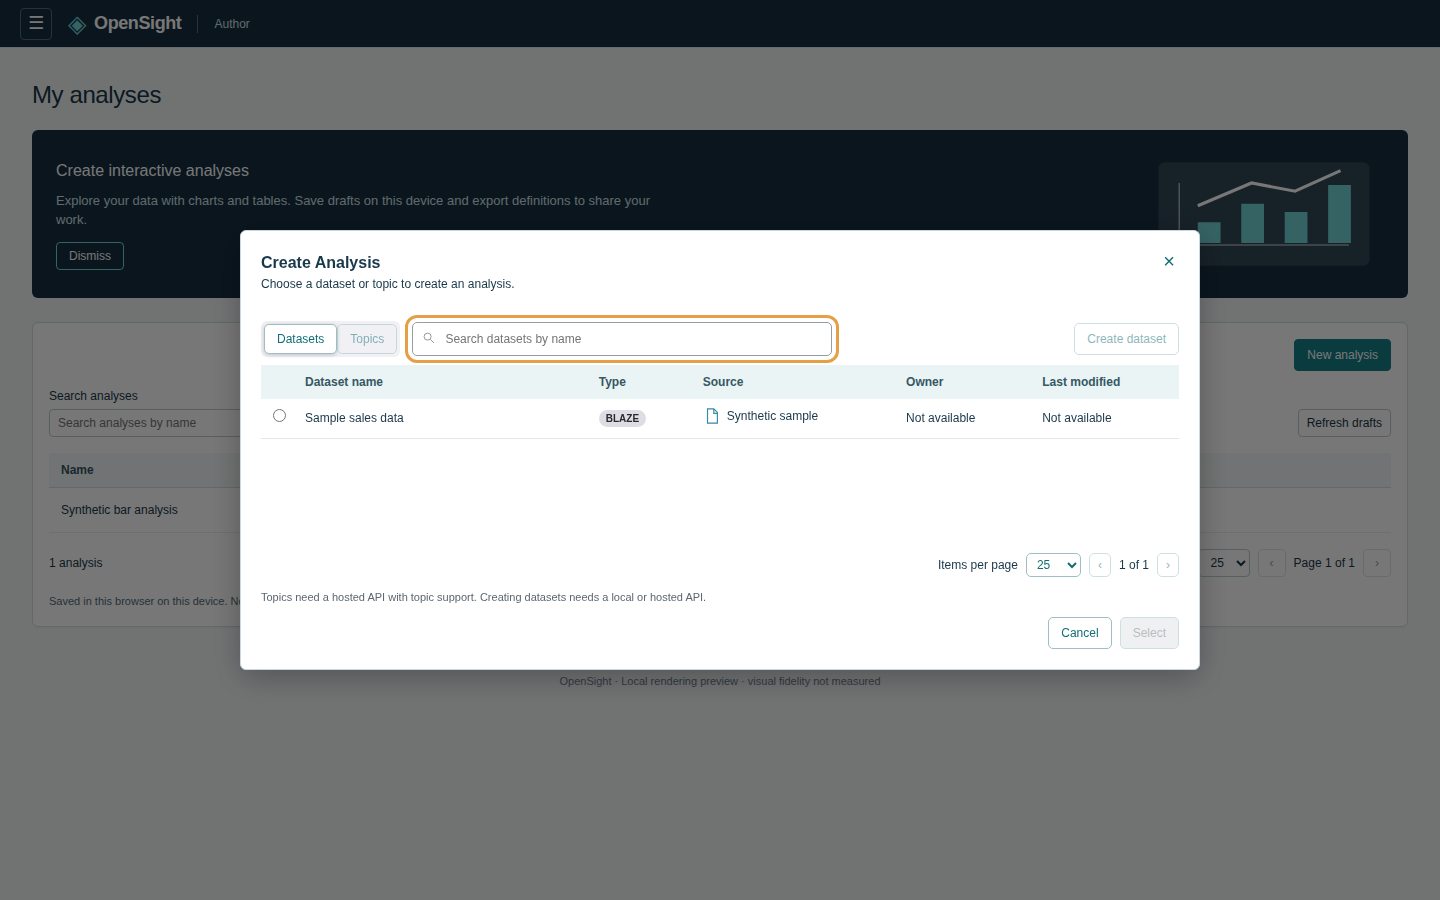
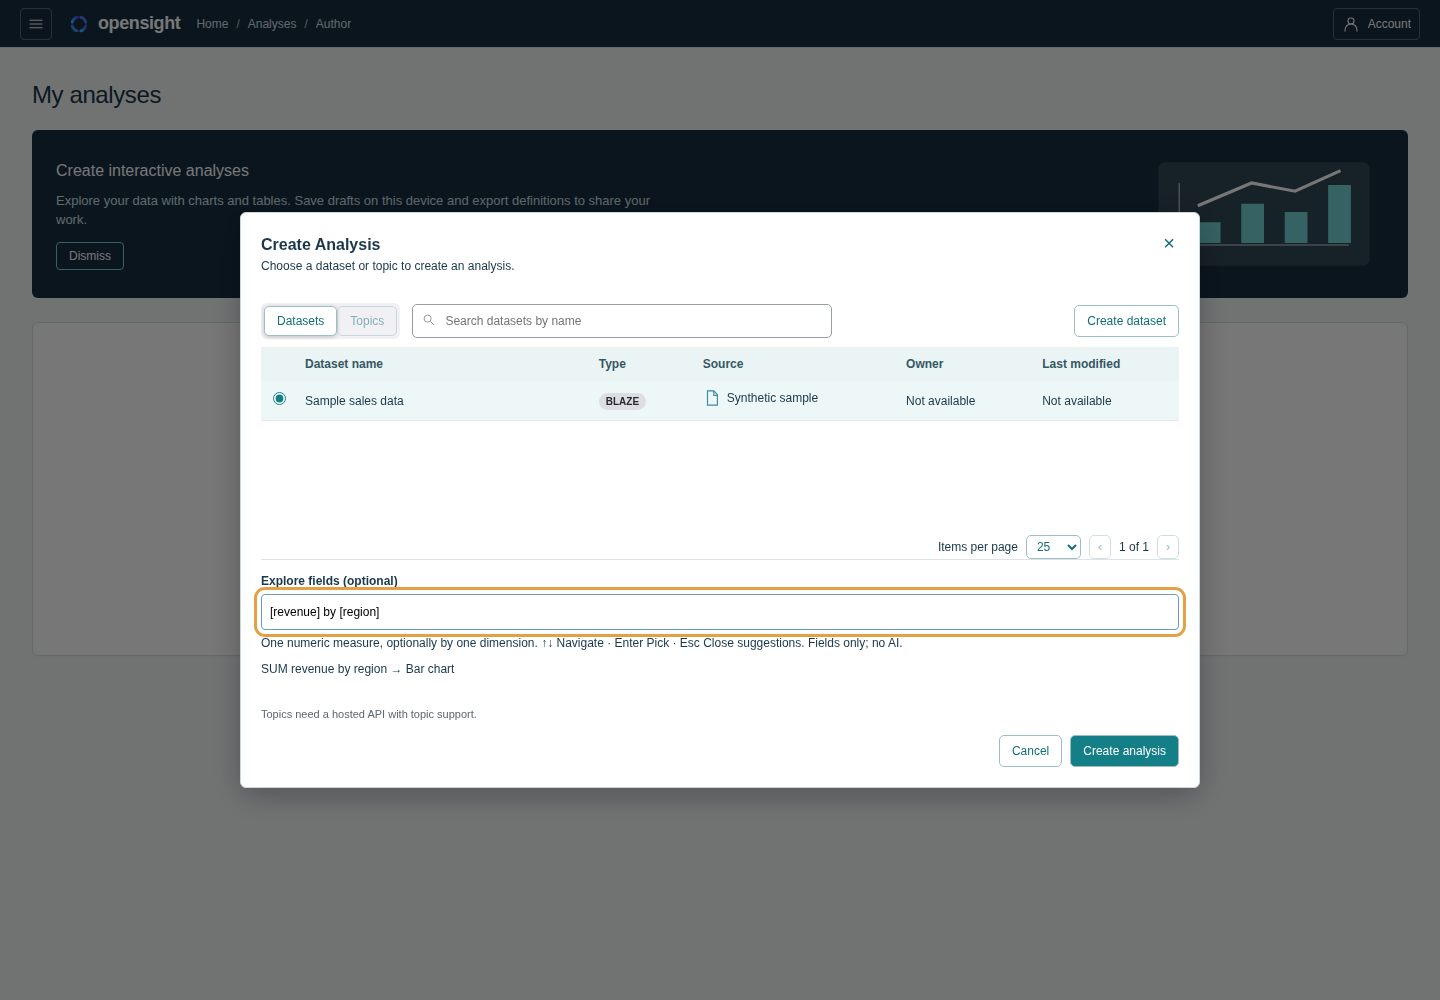
Issue 156 Item 4: document workflows and refresh verified demo captures

diff --git a/docs/issue-156-gap-notes.md b/docs/issue-156-gap-notes.md
@@ -1,0 +1,101 @@
+# Issue #156 verification and visual comparison
+
+The resolved scope is recorded in [Familiar-surface self-service](familiar-surface.md).
+Column rename was included because the existing prep model already has `rename`.
+No build item was omitted. No new dependency was added; `SOLUTION_DESIGN.md`
+remains unchanged. All commits stay on `work/issue-156-familiar-surface`.
+
+## Full root test result
+
+Root `npm test` exited **0**: **4,402 passed / 0 failed / 0 skipped /
+0 cancelled** (4,370 Node tests plus 32 Python tests).
+
+| Runner | Passed | Failed | Skipped |
+| --- | ---: | ---: | ---: |
+| API | 912 | 0 | 0 |
+| Bundle parser | 199 | 0 | 0 |
+| CLI | 73 | 0 | 0 |
+| Embedding SDK | 10 | 0 | 0 |
+| Headless SDK | 28 | 0 | 0 |
+| Python headless SDK | 32 | 0 | 0 |
+| MCP server | 74 | 0 | 0 |
+| O interpreter | 32 | 0 | 0 |
+| Parity | 11 | 0 | 0 |
+| Query engine | 523 | 0 | 0 |
+| Web | 2,420 | 0 | 0 |
+| Root conformance | 88 | 0 | 0 |
+| **Total** | **4,402** | **0** | **0** |
+
+The successful run used `TZ=UTC`, `DATABASE_URL`,
+`OPENSIGHT_TEST_POSTGRES_CA` and `OPENSIGHT_CHROMIUM`. The shared local Postgres
+on port 5433 has SSL disabled, so the final run used an isolated temporary UTF-8
+Postgres instance with TLS, leaving that shared server unchanged. The Chromium
+launcher supplied its required validated empty WebGL domain allowlist. No test
+was disabled or weakened. The local full log and exit status are retained under
+`.opensight/issue-156/` (ignored by Git). The temporary database and its TLS
+material were removed after verification.
+
+## Behavioral checks
+
+Root-wired tests cover plain/bracketed measure and measure-by-dimension queries,
+case-insensitive exact matches, spaces and bracket escaping, unknown fields with
+closest suggestions, ambiguous fields, malformed syntax, unsupported roles,
+dataset changes and stale catalog selections. Search results serialize and render
+through the ordinary visual compiler. Both creation entry points open normal
+Author drafts; prepared dataset binding and save/reload are exercised.
+
+The grid tests drive the real step editor from both grid shortcuts and catalog
+actions, then execute both resulting pipelines in DuckDB and Postgres (PGlite).
+Formula/filter/rename output agrees with independently asserted rows, including
+null filtering. Invalid expressions, aggregates, unknown fields, duplicate names,
+invalid filter values and actions from an earlier preview are rejected. Preview
+row numbering, column reordering, and the absence of cell editors are checked.
+
+## Browser and reference comparison
+
+`packages/web/scripts/capture-familiar-surface.mjs` exercises the rebuilt
+single-file demo at 1440px and 390px. Keyboard suggestions, unknown-token rejection,
+chart save/reload, and formula/filter/rename actions pass. No document overflow,
+browser page errors, or external requests were observed. Prep remains schema-only
+in the static demo, with zero fabricated rows and disabled Save pipeline.
+
+Compared with the local `qs-2026/qs-data-prep-new.jpg` reference, the Steps dock,
+pipeline canvas and Configure/Preview arrangement remain intact. The grid adds
+compact column actions within Preview; it does not introduce floating panels.
+Compared with `qs-2026/qs-create-analysis-dialog.jpg`, the existing dataset table,
+tabs, pagination and modal controls remain in place. Field exploration appears
+below the selected dataset. Existing unavailable catalog metadata stays labeled
+as unavailable, and Topics retains its hosted-support explanation.
+
+The new search surface intentionally extends the reference dataset picker.
+Existing reference differences remain; no new visual regression was found in
+this slice's checks. The footer still says “visual fidelity not measured”; these
+manual comparisons do not establish QuickSight parity or a deployed server.
+
+The README Create Analysis and data-prep screenshots were refreshed from the
+rebuilt demo. The maintained `capture-readme-tour.mjs` adaptation of the supplied
+`readme-gif.mjs` includes field search, grounded correction, formula columns and
+column filters. Its 246 frames were assembled with the documented ffmpeg palette
+workflow at 960×600 and 10fps. The tour reported zero page errors or external
+requests.
+
+## Changed-file inventory
+
+- Preparation: `packages/web/src/DataPrep.tsx`,
+  `packages/web/src/PrepPreviewTable.tsx`, `packages/web/src/style.css`.
+- Field search and draft creation: `packages/web/src/field-search.ts`,
+  `packages/web/src/FieldSearchInput.tsx`,
+  `packages/web/src/CreateAnalysisDialog.tsx`, `packages/web/src/Application.tsx`,
+  `packages/web/src/Author.tsx`, `packages/web/src/use-local-drafts.ts`.
+- Root-wired tests: `packages/web/test/field-search.test.mjs`,
+  `packages/web/test/create-analysis-dialog.test.mjs`,
+  `packages/web/test/new-analysis-flow.test.mjs`,
+  `packages/web/test/data-prep.test.mjs`,
+  `packages/web/test/prep-canvas-followup.test.mjs`.
+- Documentation: `docs/familiar-surface.md`, `docs/data-prep.md`,
+  `docs/calculated-fields.md`, `docs/issue-156-gap-notes.md`, `README.md`,
+  `CHANGELOG.md`.
+- Captures: `packages/web/scripts/capture-familiar-surface.mjs`,
+  `packages/web/scripts/capture-readme-tour.mjs`,
+  `docs/images/create-analysis.png`, `docs/images/data-prep.png`,
+  `docs/images/opensight-tour.gif`.

diff --git a/README.md b/README.md
@@ -74,6 +74,9 @@ failure guidance and the recovery notice for work that was never manually saved.
 The [dataset picker](docs/issue-59-dataset-picker.md) searches prepared datasets
 by name. Topics needs a hosted API with topic support; the static demo offers
 its labeled synthetic sample.
+After choosing a dataset, [Explore fields](docs/familiar-surface.md) accepts
+`[revenue] by [region]` to create a bar chart, or `[revenue]` for a KPI.
+Field suggestions are deterministic; unknown or ambiguous names block creation.
 
 If the API is unavailable, the first-run screen offers recovery guidance; an API
 without local-data support or authentication instead offers setup and explicit
@@ -215,6 +218,10 @@ editing one opens the preparation canvas: select fields, add calculated columns,
 change types, rename, filter — and combine sources with join/append steps. Branch
 from an earlier step, choose the output, and preview each path against a local or
 hosted API.
+
+The Preview grid includes row numbers and typed headers. Add a formula column,
+filter a column, or rename it through the existing validated prep steps.
+Formula columns use the calculated-field language; cell values are read-only.
 
 ![Data landing page with datasets, topics, and data sources tabs](docs/images/data-landing.png)
 

diff --git a/docs/familiar-surface.md b/docs/familiar-surface.md
@@ -35,8 +35,9 @@ unspecified.
 Choose a dataset in Create Analysis, then optionally enter a measure field and
 one dimension after `by`: `revenue`, `[revenue]`, `revenue by region`, or
 `[revenue] by [region]`. Measures are numeric dataset fields; dimensions follow
-the existing author field roles. Numeric measures use SUM. Field names with
-spaces are supported; brackets disambiguate names containing the word `by`.
+the existing author field roles; Boolean fields are unsupported. Numeric measures
+use SUM. Field names with spaces are supported; brackets disambiguate names
+containing the word `by`.
 
 The field picker offers the chosen dataset's fields and closest matches while
 typing, with arrow-key navigation and Enter to pick. Exact field names resolve

diff --git a/CHANGELOG.md b/CHANGELOG.md
@@ -13,6 +13,12 @@ Unreleased entries into a new version section (see AGENTS.md §1).
 
 ### Added
 
+- Spreadsheet-style data-prep previews with numbered rows, typed column headers,
+  and formula, filter, and rename shortcuts that create ordinary validated
+  preparation steps (#156).
+- Deterministic field search in Create Analysis, with keyboard-accessible field
+  suggestions, explicit unknown/ambiguous-token errors, and normal editable
+  KPI or bar analyses from a measure optionally grouped by a dimension (#156).
 - Hosted readers can open published prepared dashboards when independently
   authorized for every recipe source. Recipes execute on reader-scoped data,
   including joins and aggregates, without reusing publisher prepared caches;

diff --git a/docs/data-prep.md b/docs/data-prep.md
@@ -1,5 +1,8 @@
 # Dataset preparation (issues #9, #11, #14, #17, #18, and #58)
 
+The Preview tab also offers [spreadsheet-style column actions](familiar-surface.md)
+for formula columns, filters, and renames (#156), all using the operations below.
+
 The Data preparation view builds a branching transformation pipeline over sources
 from the connector registry. Open it from Data sources → Prepare data, the mode
 picker, or the analysis editor's Data → Prepare data menu. The persistent left

diff --git a/docs/calculated-fields.md b/docs/calculated-fields.md
@@ -1,5 +1,8 @@
 # Calculated fields (Phase 2c)
 
+Data preparation's [formula-column shortcut](familiar-surface.md) (#156) uses
+this same expression language and the existing row-expression restrictions.
+
 The browser-safe query-engine catalog is the source of signatures, examples and
 validation for the editor and both SQL dialects. Expressions are parsed into a
 typed tree; they are never JavaScript or caller-supplied SQL. Field references use
